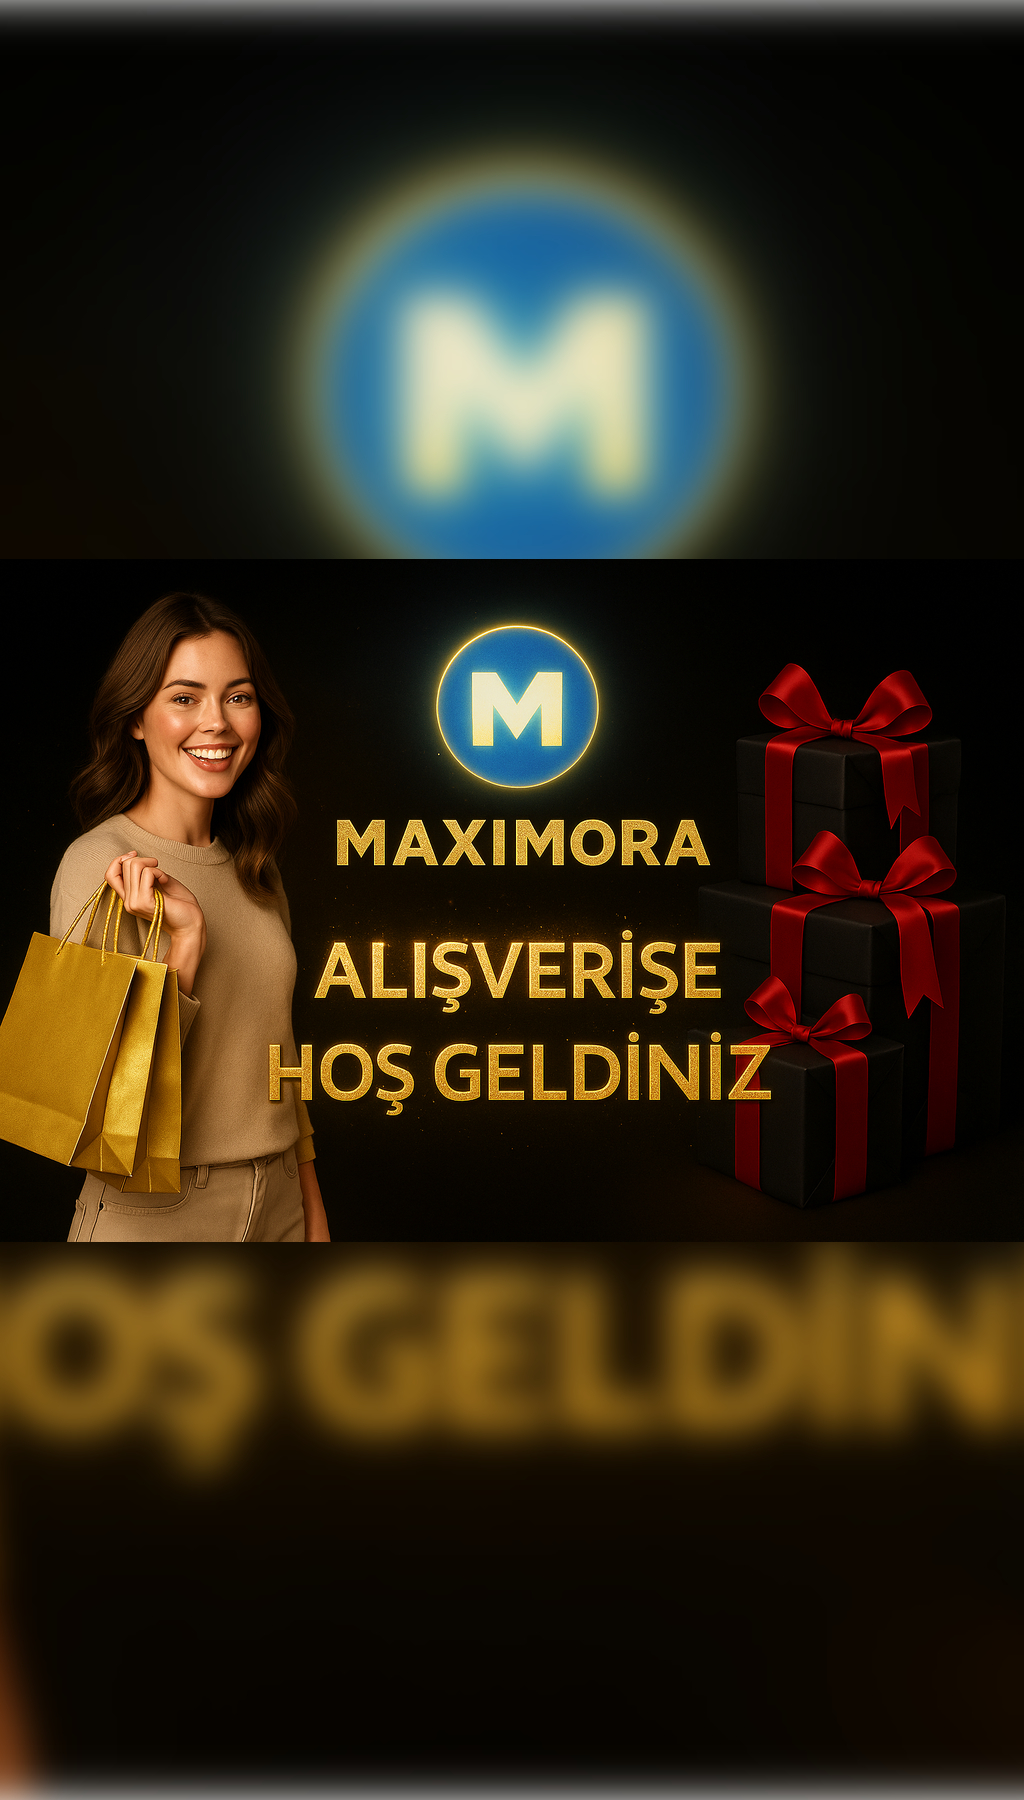
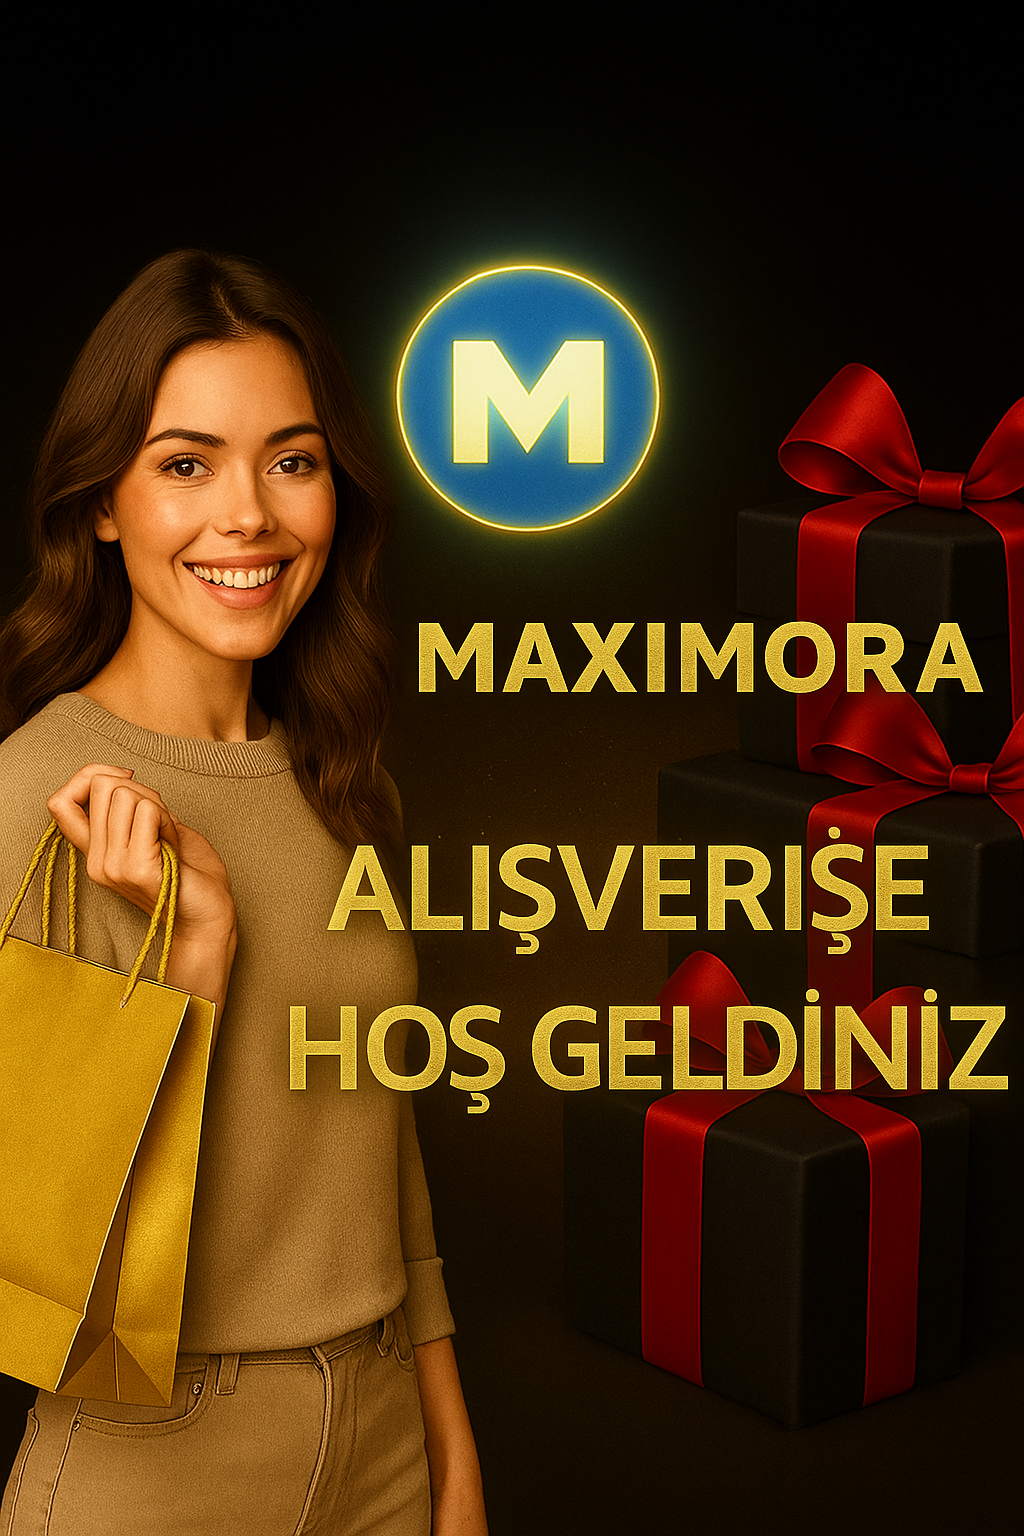
quickview responsive fix

diff --git a/src/pages/Home.jsx b/src/pages/Home.jsx
@@ -45,6 +45,7 @@ export default function Home() {
     { src: "/hero/slide6.jpg", text: "" },
     { src: "/hero/slide7.jpg", text: "" },
     { src: "/hero/slide8.jpg", text: "" },
+    { src: "/hero/slide9.jpg", text: "" },
   ];
 
   return (
@@ -235,6 +236,16 @@ export default function Home() {
   .custom-next {
     display: none !important;
   }
+
+}
+
+/* ✅ Tüm cihazlarda boşluk ve kayma önleme */
+html, body {
+  margin: 0 !important;
+  padding: 0 !important;
+  background: #000 !important;
+  overflow-x: hidden !important;
+  overscroll-behavior-y: none !important;
 }
 
   @keyframes marquee {
